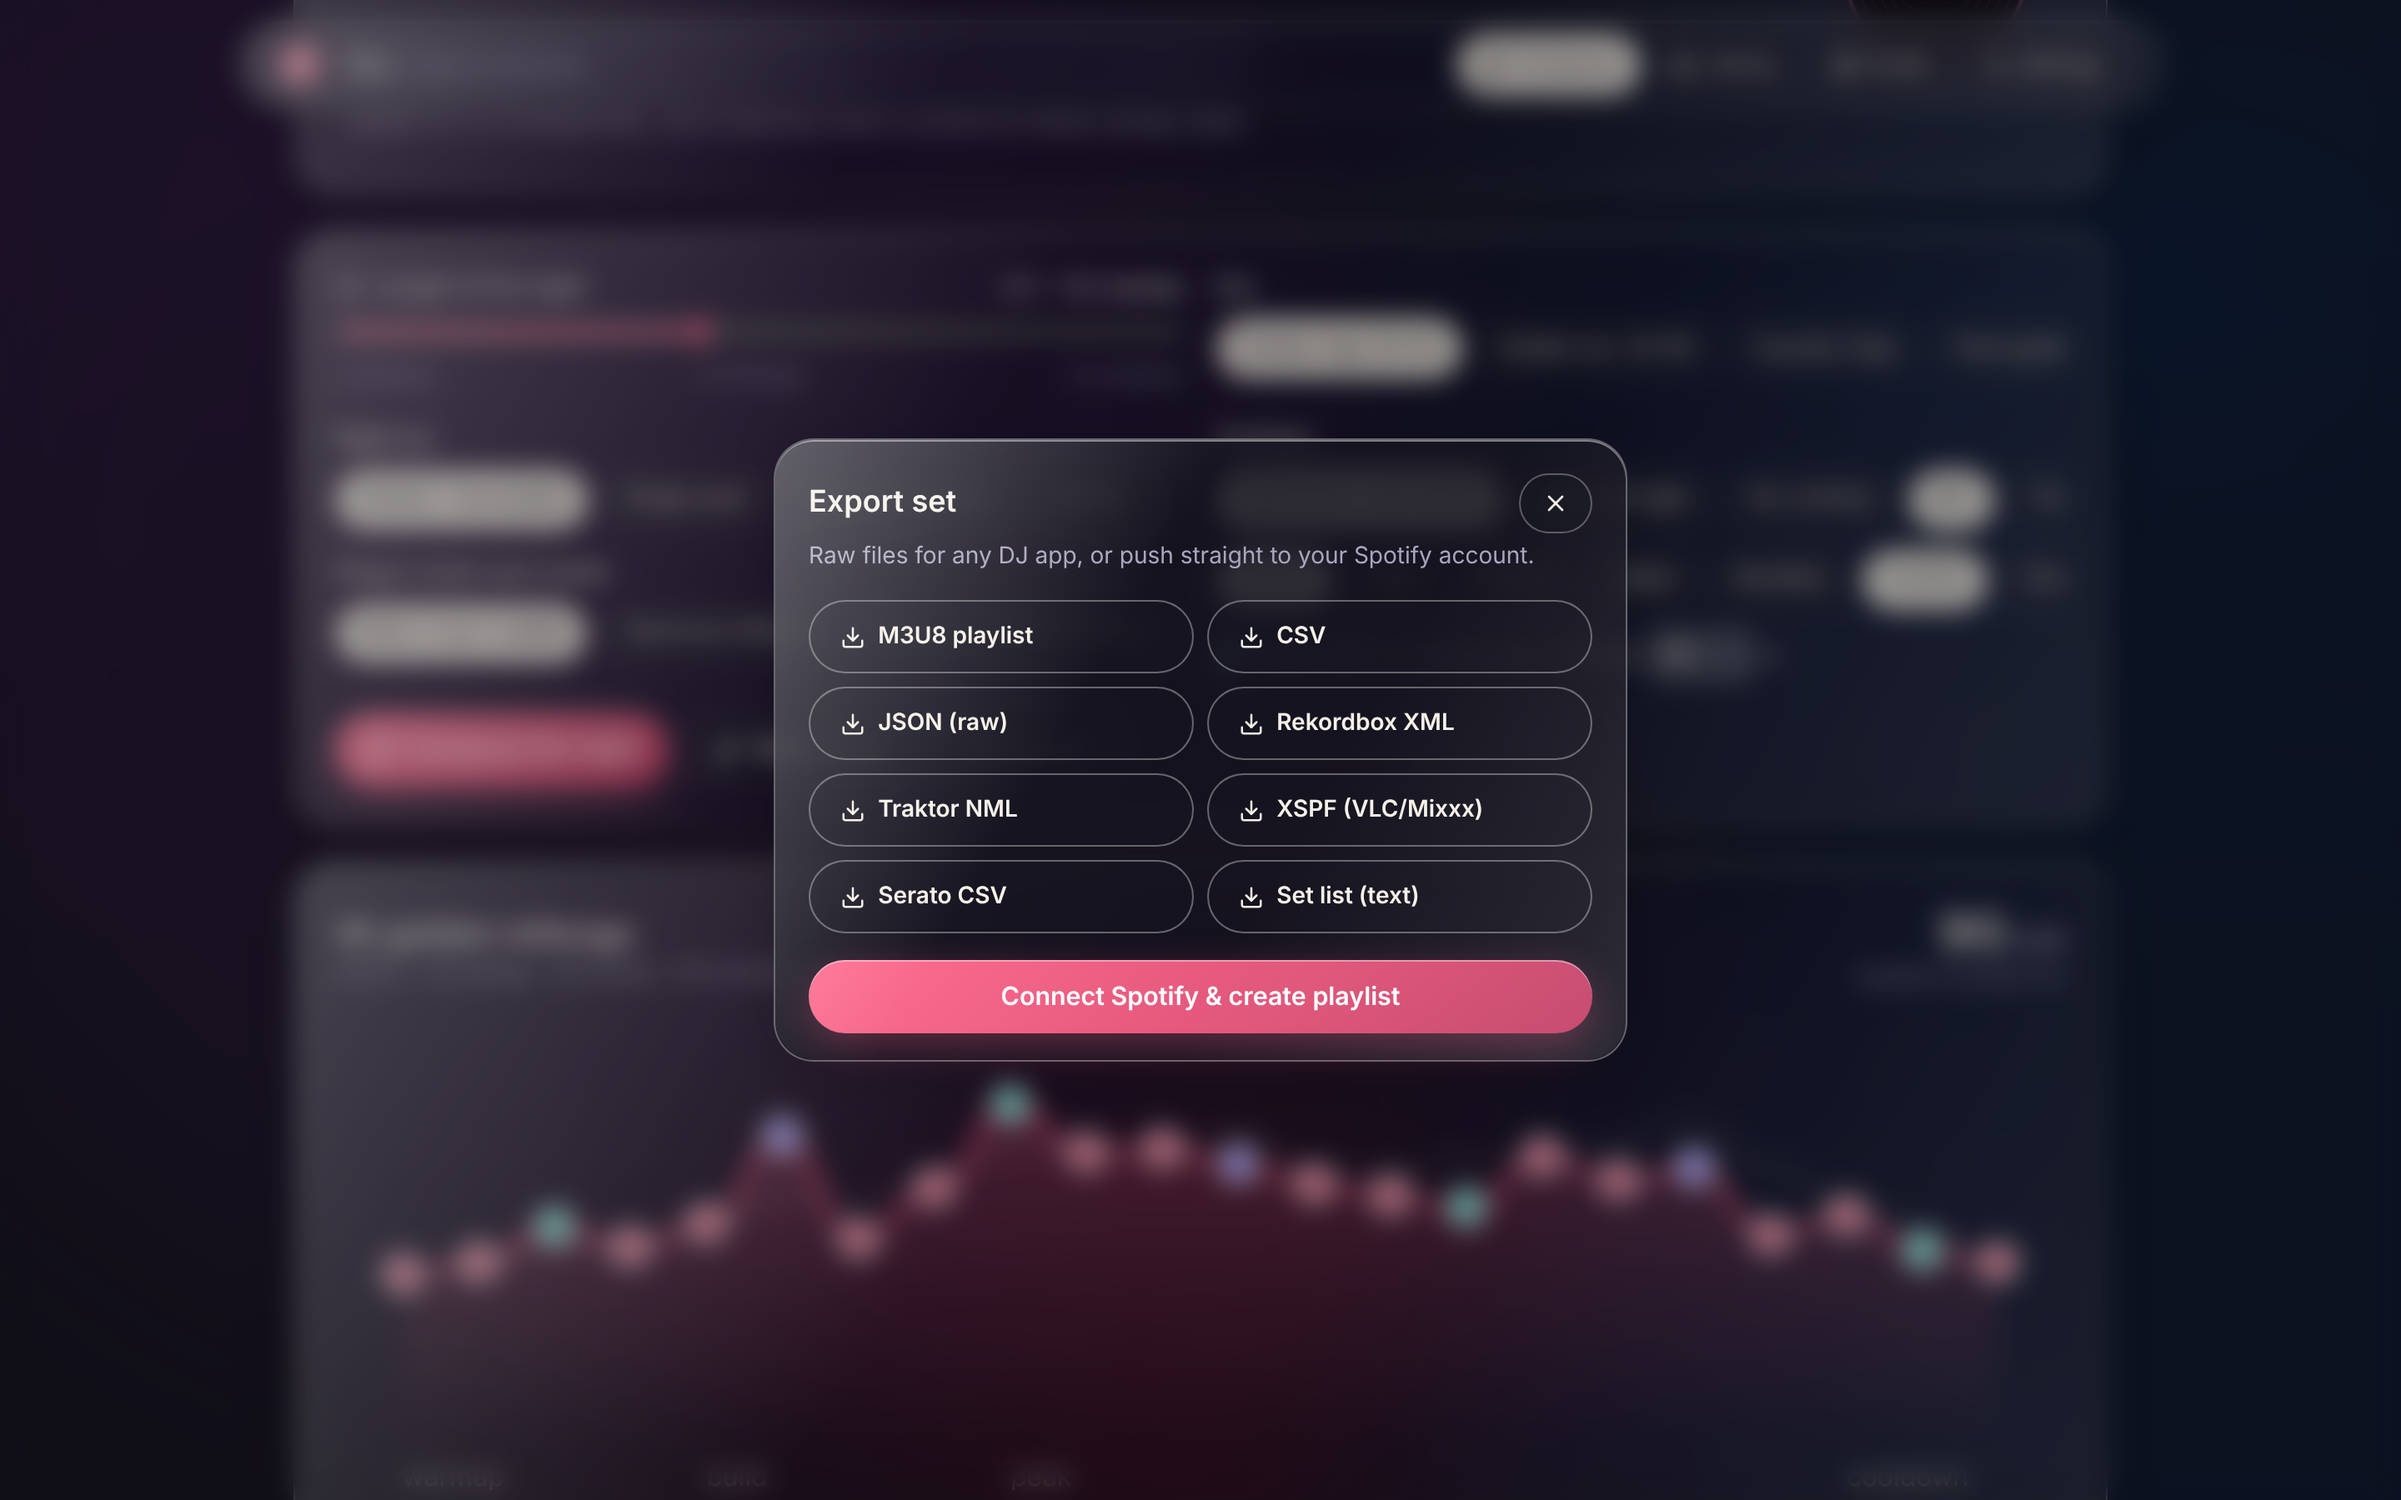
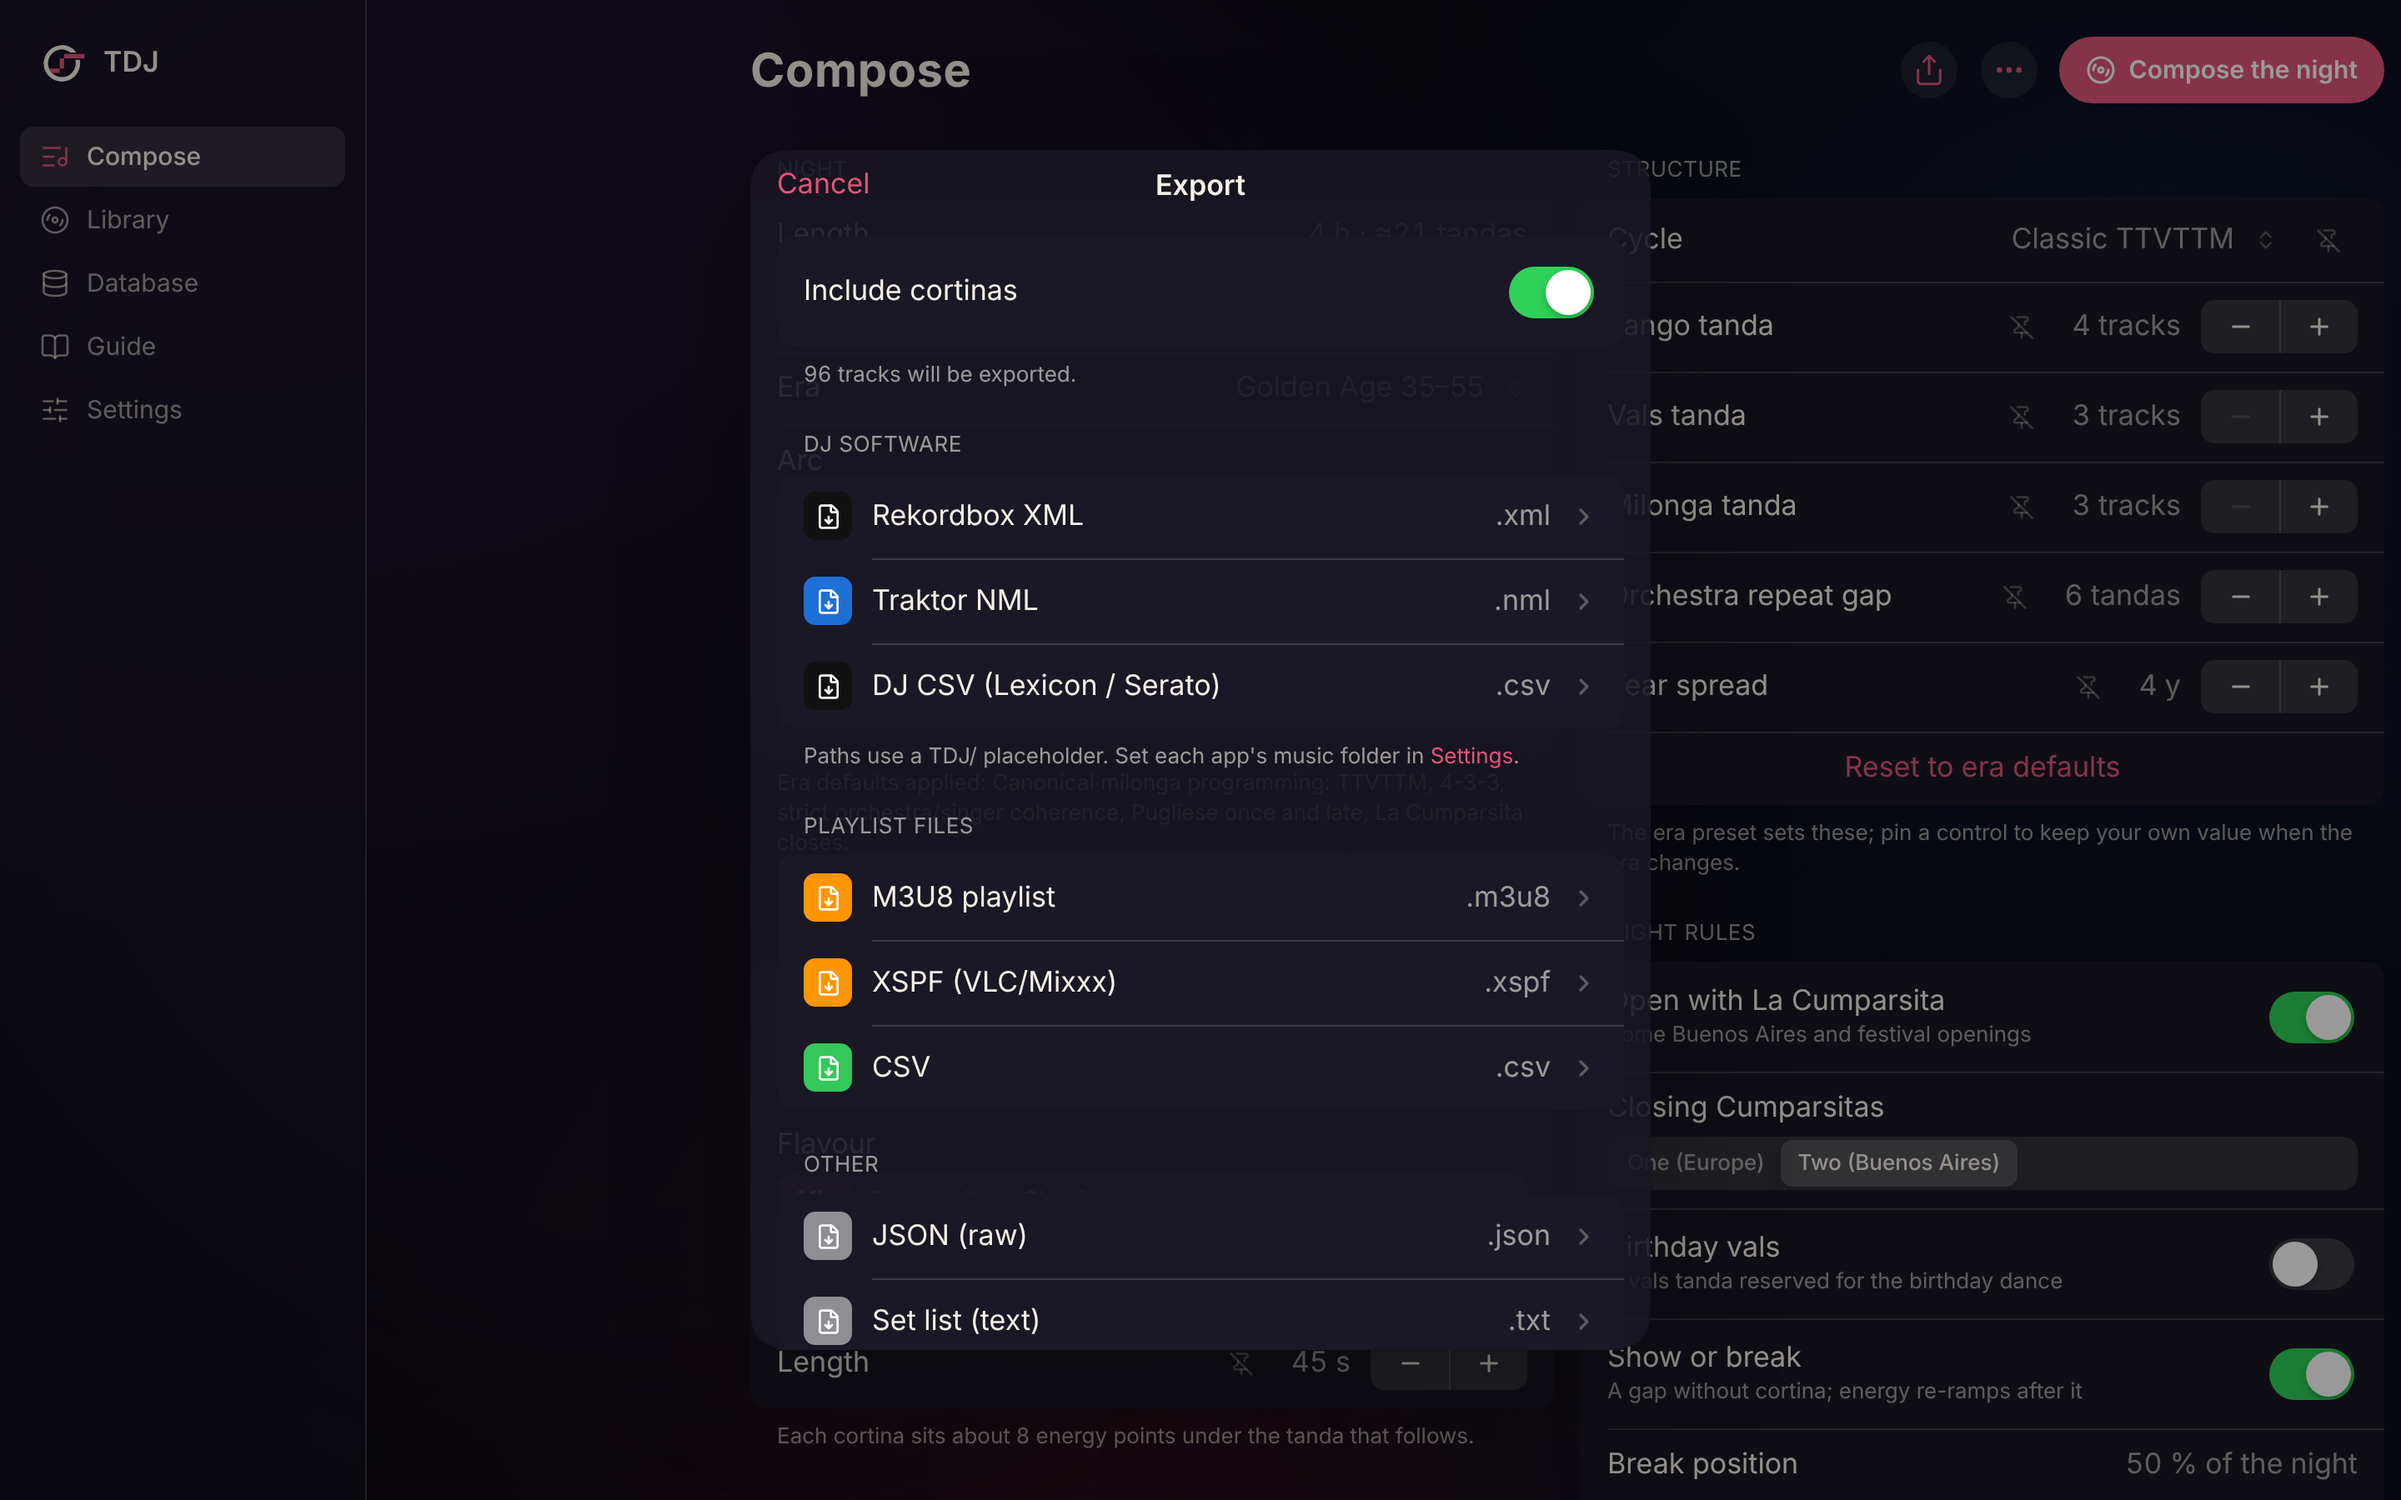
docs: README and roadmap for night rules, memory, native UI and motion; launch video assets refreshed
Claude-Session: https://claude.ai/code/session_01QuU632jpEg7QcEeYVY6vZF

diff --git a/README.md b/README.md
@@ -8,6 +8,7 @@
 <p align="center"><a href=".github/workflows/ci.yml"><img alt="CI" src="https://img.shields.io/badge/CI-vitest%20%C2%B7%20playwright%20%C2%B7%20biome-7c3aed"></a> <img alt="Next 16" src="https://img.shields.io/badge/Next.js-16.4-black"> <img alt="SST" src="https://img.shields.io/badge/AWS-SST%20v4%20%2B%20OpenNext-f90"> <img alt="index" src="https://img.shields.io/badge/index-21%2C932%20recordings-e0557a"></p>
 
 <p align="center"><img src="media/video/usage.gif" width="880" alt="TDJ usage: compose a 4-hour golden-age milonga, swap a tanda, export"/></p>
+<p align="center"><img src="media/video/motion.gif" width="880" alt="Motion: compose narrative, curve draw-on, tanda choreography, export sheet, mobile tab bar"/></p>
 
 ## What it does
 - **Composes a milonga** for 1–8 h: TTVTTM cycles, 4-3-3 tandas, one orchestra · one singer · ≤ 4 years per tanda, no repeats, orchestras spaced.
@@ -23,14 +24,17 @@
 - **Scores every set** honestly against a rubric distilled from reference sets (unknown BPM and transfer data score low on purpose); ≥ 85 = headline marathon DJ.
 - **Exports**: Spotify (PKCE, your own Client ID), M3U8, CSV, JSON, Rekordbox XML, Traktor NML, XSPF, DJ CSV, printable set list; with or without cortinas; DJ-app connectors map exports to your music folders.
 - **Per-user panel**: Spotify, AI provider + key + model, DJ-app connectors, region, appearance. Keys stay in the browser.
-- **Apple-style liquid glass UI**, dark/light, phone-first with a glass tab bar.
+- **Night rules per event**: open with La Cumparsita, one or two closing Cumparsitas (Europe / Buenos Aires), birthday vals, show break with energy re-ramp, opener and última rules, Pugliese once, mixed milonga/vals tandas. Each era preset (Golden Age, Guardia Vieja, post-golden, nuevo, contemporary) applies its own structure defaults; pin any control to keep your value.
+- **Agents with memory**: the assistant remembers your notes, every set, your feedback and the preferences it learned (per user, in your database tab), and composes and reviews with that memory.
+- **Native Apple feel**: inset grouped forms, large titles, a Liquid Glass tab bar on phone and a sidebar on desktop, sheets with detents, context menus and swipe actions, SF-scale typography, light and dark; a motion system (compose narrative, curve draw-on, card choreography, haptic twins) that honours reduced motion.
 
 <p align="center">
 <img src="media/screenshots/01-home-dark.png" width="48%" alt="Home, dark"/> <img src="media/screenshots/02-result-arc.png" width="48%" alt="Energy arc and score"/><br/>
 <img src="media/screenshots/03-tandas.png" width="48%" alt="Tanda cards with cortinas"/> <img src="media/screenshots/04-export.png" width="48%" alt="Export sheet"/><br/>
 <img src="media/screenshots/14-tonight-context.png" width="48%" alt="Tonight: season, weather, room, event, crowd, mood"/> <img src="media/screenshots/13-listen.png" width="48%" alt="Listen: Spotify embeds per tanda"/><br/>
 <img src="media/screenshots/12-database.png" width="48%" alt="Your database: songs, orchestras, cortinas, rules, context"/> <img src="media/screenshots/15-settings-ai.png" width="48%" alt="Settings: AI providers and DJ-app connectors"/><br/>
-<img src="media/screenshots/08-mobile-home.png" width="19%" alt="Mobile home"/> <img src="media/screenshots/09-mobile-result.png" width="19%" alt="Mobile result"/> <img src="media/screenshots/10-mobile-tandas.png" width="19%" alt="Mobile tandas"/> <img src="media/screenshots/11-mobile-export.png" width="19%" alt="Mobile export"/> <img src="media/screenshots/16-mobile-database.png" width="19%" alt="Mobile database"/>
+<img src="media/screenshots/17-rules.png" width="48%" alt="Night rules: Cumparsitas, birthday vals, show break, opener and última rules"/> <img src="media/screenshots/18-memory.png" width="48%" alt="Memory: notes, learned preferences, set and feedback history"/><br/>
+<img src="media/screenshots/08-mobile-home.png" width="19%" alt="Mobile home"/> <img src="media/screenshots/09-mobile-result.png" width="19%" alt="Mobile result"/> <img src="media/screenshots/10-mobile-tandas.png" width="19%" alt="Mobile tandas"/> <img src="media/screenshots/11-mobile-export.png" width="19%" alt="Mobile export"/> <img src="media/screenshots/19-mobile-settings.png" width="19%" alt="Mobile settings"/>
 </p>
 
 ## Quick start
@@ -54,7 +58,7 @@ pnpm media               # real screenshots + usage video  ·  pnpm video (Remot
 `hours` → slots (TTVTTM) → target energy per slot (two-peak arc) → for each slot pick an orchestra family that fits energy, phase, tier and spacing (Pugliese never before 50 %) → order the 4 tracks → cortina tuned to the next tanda → La Cumparsita from another orchestra → score. Details: [docs/ARCHITECTURE.md](docs/ARCHITECTURE.md), musical rules: [docs/research/musicology.md](docs/research/musicology.md).
 
 ## Docs
-[Goals](docs/GOALS.md) · [Agent guide & rules](docs/AGENT_GUIDE.md) · [Musicality model](docs/MUSICALITY.md) · [Reference corpus](docs/research/reference-corpus.md) · [Roadmap & phases](docs/ROADMAP.md) · [Benchmark rubric](docs/BENCHMARK.md) · [Enhancements from musician/DJ/UX/QA reviews](docs/ENHANCEMENTS.md) · [TDD](docs/TDD.md) · [Definition of Done](docs/DOD.md) · [Worktrees](docs/WORKTREES.md) · [Deploy](docs/DEPLOY.md) · [Research (2026 integrations)](docs/research/engineering-2026.md) · [Brand](brand/)
+[Goals](docs/GOALS.md) · [Agent guide & rules](docs/AGENT_GUIDE.md) · [Musicality model](docs/MUSICALITY.md) · [Reference corpus](docs/research/reference-corpus.md) · [Roadmap & phases](docs/ROADMAP.md) · [Benchmark rubric](docs/BENCHMARK.md) · [Enhancements from musician/DJ/UX/QA reviews](docs/ENHANCEMENTS.md) · [TDD](docs/TDD.md) · [Definition of Done](docs/DOD.md) · [Worktrees](docs/WORKTREES.md) · [Deploy](docs/DEPLOY.md) · [Design: motion system](docs/design/motion-system.md) · [Design: Apple-native pass](docs/design/apple-native-pass.md) · [Research (2026 integrations)](docs/research/engineering-2026.md) · [Brand](brand/)
 
 ## Stack (October 2026)
 Next.js 16.4 · React 19.3 · Tailwind 4.3 · motion 14 · dotLottie · Zustand · Vitest · Playwright 1.64 · Biome 2 · Turborepo · SST 4.17 + OpenNext 4 · Remotion 4 · Anthropic SDK (BYOK, Claude 5.5 models) · Spotify Web API (2026 Dev-Mode rules, PKCE).

diff --git a/docs/ROADMAP.md b/docs/ROADMAP.md
@@ -14,7 +14,8 @@ Catalogue index in-repo (21,932 recordings, orchestra heatmap), composer engine 
 - BPM/key per recording: in-browser beat detection on previews (`web-audio-beat-detector`, MIT) → `data/cache/bpm.json`; activate rubric C9.
 - Transfer-tier tagging per album/label (TangoTunes, CTA, El Bandoneón, Euro Records…).
 
-## Phase 2 — The DJ booth ⏳
+## Phase 2 — The DJ booth 🔧
+- ✅ Locks that survive recompose, per-track swap, feedback chips and free-text refine, night rules (Cumparsitas, birthday vals, show break, opener/última), era presets with pinned controls, agent memory, Apple-native UI and motion system.
 - Lock/unlock tandas (persisted), drag reorder, swap a single track, "avoid this orchestra tonight".
 - Clock view (wall-clock timeline, "we are here"), print/PDF set list, request queue with insert-at-energy.
 - Floor-feedback knob (re-plan remaining night up/down 10 energy points).
